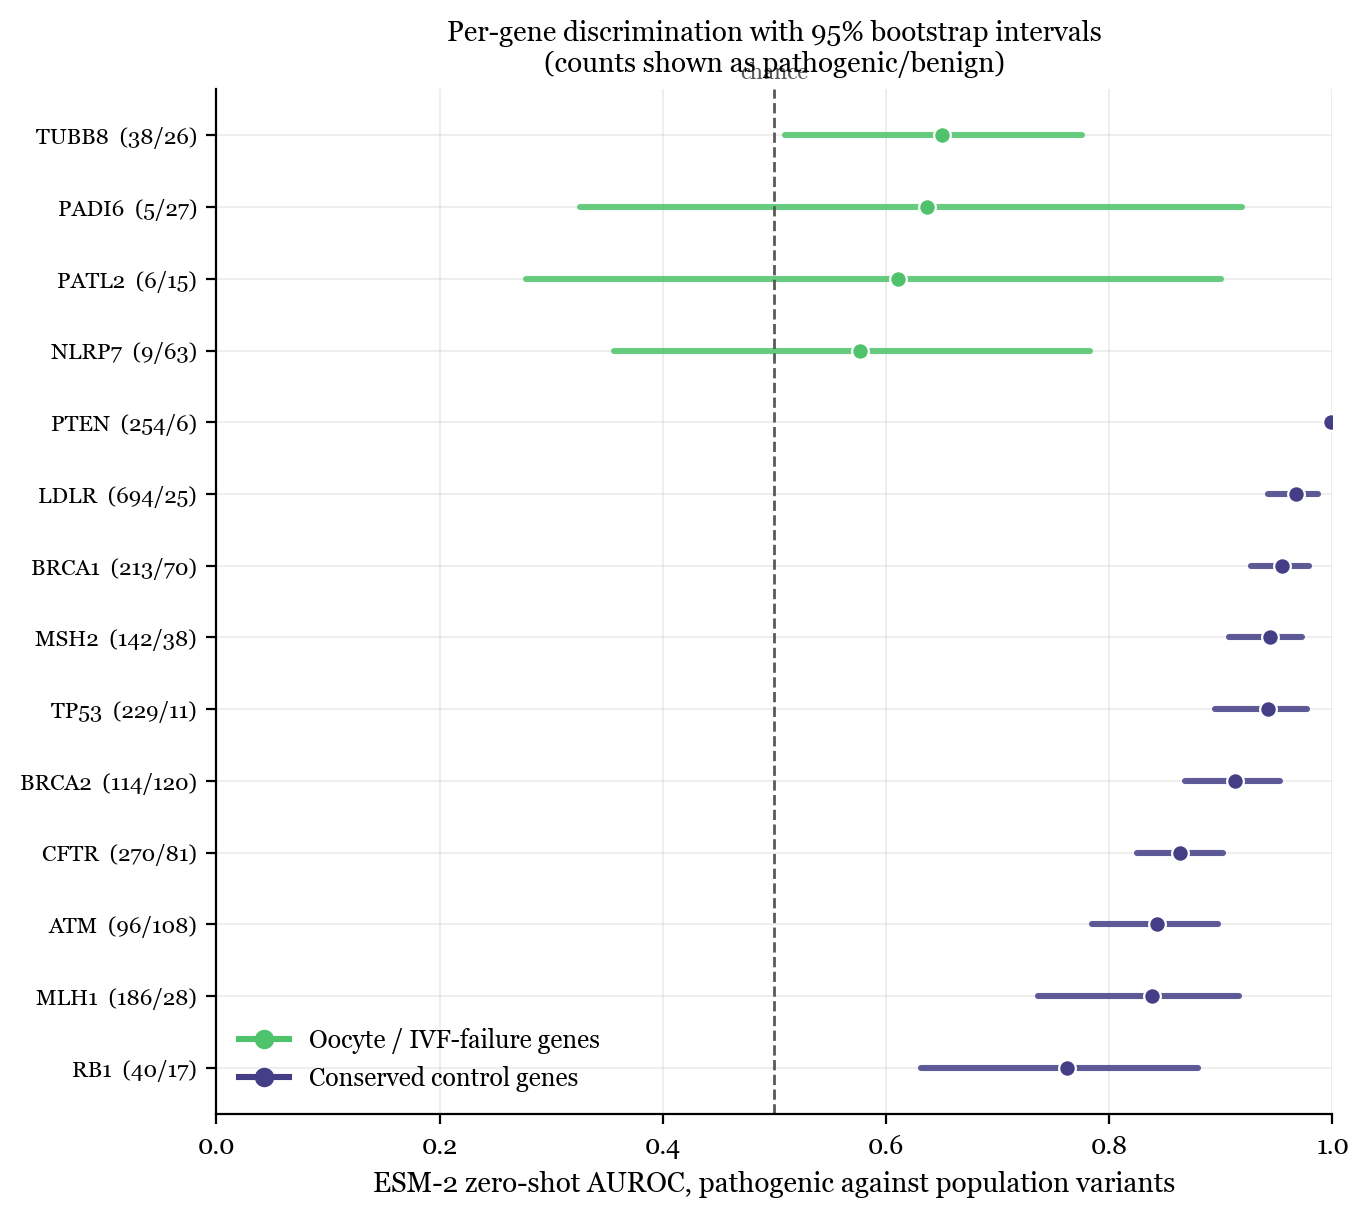
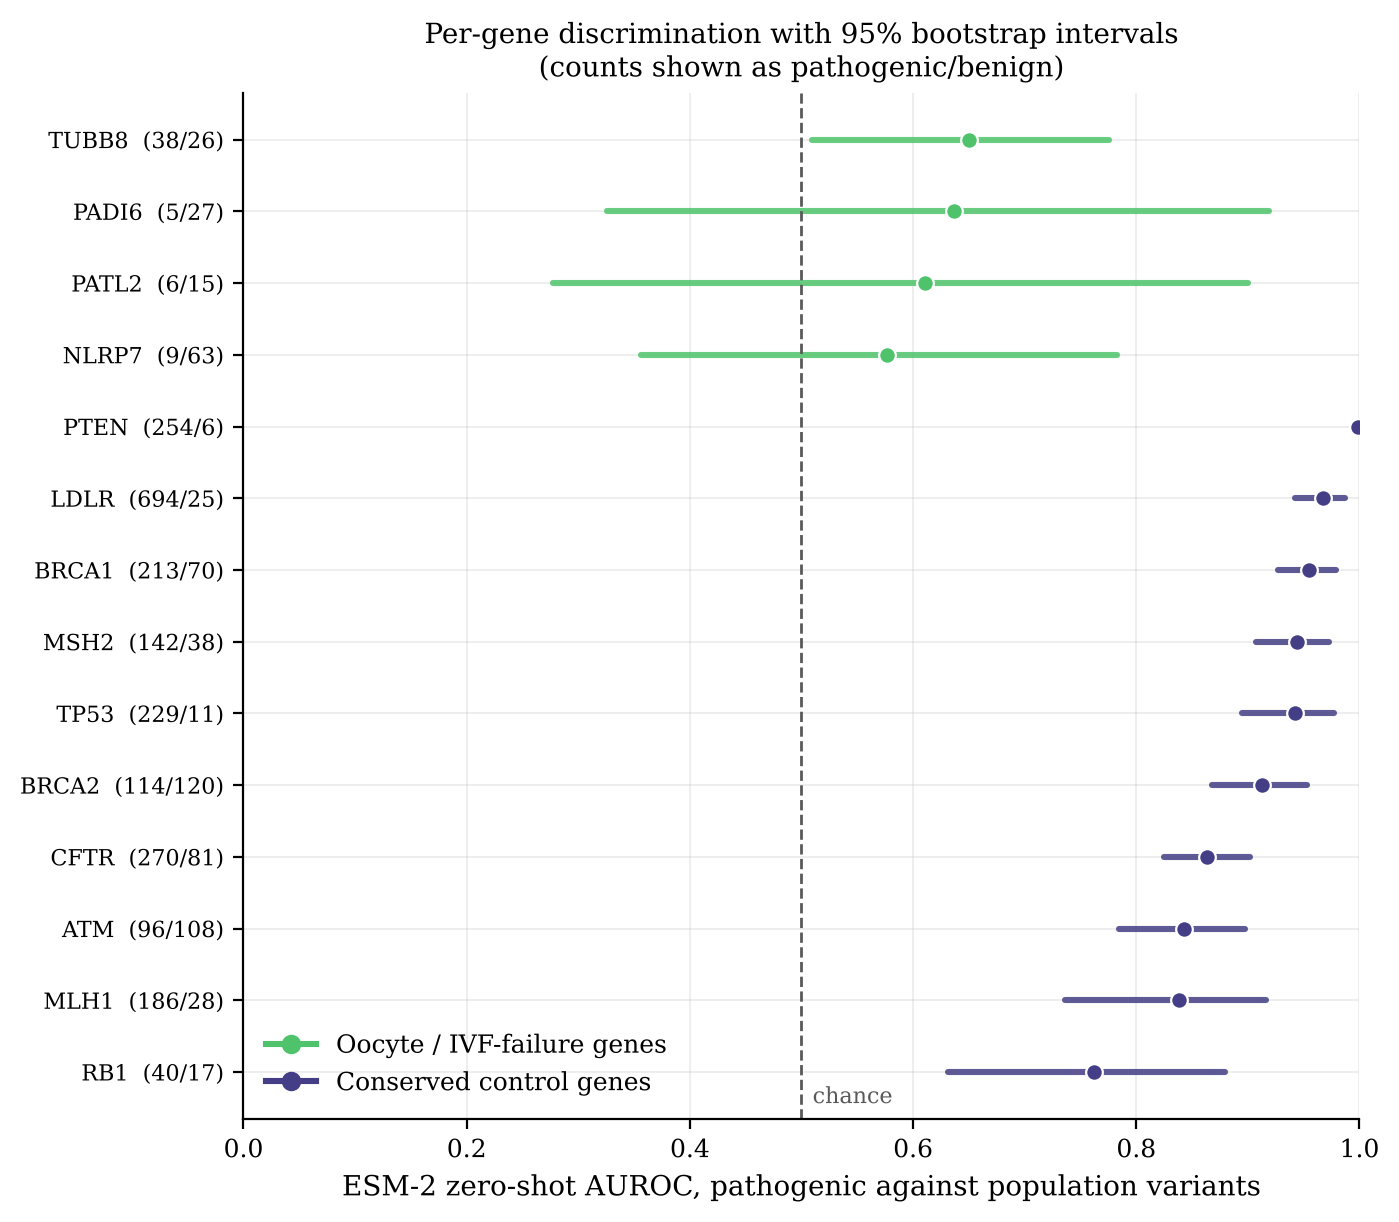
Fix Figure 1 chance label; add 12_figures_extra.py
Figure 1: the 'chance' label moved inside the axes at the foot of the
dashed line so it no longer overlaps the title. Regenerated here with the
DejaVu Serif fallback (Georgia is not installed in this environment).
New fig4 permutation null distributions (min-AF 1e-4 and 1e-3); fig5
(TUBB8 position classes) and fig6 (AUROC vs pseudo-perplexity) are drawn
once steps 08 and 09 have been run.

Claude-Session: https://claude.ai/code/session_01TYGEgcSfH6ALLhKz831jXa

diff --git a/12_figures_extra.py b/12_figures_extra.py
@@ -1,0 +1,180 @@
+#!/usr/bin/env python3
+"""
+12_figures_extra.py
+
+Figures for the follow-up analyses, in the same style as 05_figures.py
+(the style settings and palette are imported from it, not copied).
+
+    fig4_permutation_null.png     exact permutation null distributions for
+                                  the ESM-2, BLOSUM62 and advantage gaps,
+                                  observed gap marked (step 06)
+    fig5_tubb8_position_classes.png  TUBB8 AUROC at paralog-shared versus
+                                  TUBB8-specific positions (step 08)
+    fig6_auroc_vs_pppl.png        per-gene ESM-2 AUROC and advantage
+                                  against pseudo-perplexity (step 09)
+
+A figure whose input file does not exist yet is skipped with a message,
+so this can be rerun as each local step is completed.
+
+Usage
+    python 12_figures_extra.py
+    python 12_figures_extra.py --setting min_af=0.001
+"""
+
+import argparse
+import importlib
+import os
+
+import matplotlib.pyplot as plt
+import numpy as np
+
+from common import RESULT_DIR, read_jsonl
+
+fig05 = importlib.import_module("05_figures")      # sets rcParams on import
+GRAD, COLOUR, LABEL, save = fig05.GRAD, fig05.COLOUR, fig05.LABEL, fig05.save
+
+QUANTITY_LABEL = {
+    "esm": "ESM-2 gap",
+    "blosum": "BLOSUM62 gap",
+    "esm_adv": "ESM-2 advantage gap",
+}
+
+
+def fig_permutation_null(setting):
+    path = os.path.join(RESULT_DIR, "permutation_null.jsonl")
+    if not os.path.exists(path):
+        print("skipping fig4, run 06_permutation_test.py first")
+        return
+    rows = {r["quantity"]: r for r in read_jsonl(path) if r["setting"] == setting}
+    tests = {r["quantity"]: r for r in read_jsonl(os.path.join(RESULT_DIR, "permutation_test.jsonl"))
+             if r["setting"] == setting}
+    order = [q for q in ("esm_adv", "esm", "blosum") if q in rows]
+    if not order:
+        print("skipping fig4, no rows for %s" % setting)
+        return
+
+    fig, axes = plt.subplots(1, len(order), figsize=(3.3 * len(order), 3.2),
+                             squeeze=False)
+    for ax, q in zip(axes[0], order):
+        null = np.asarray(rows[q]["null_gaps"])
+        obs = rows[q]["observed_gap"]
+        t = tests[q]
+        bins = np.linspace(null.min(), max(null.max(), obs), 32)
+        ax.hist(null, bins=bins, color=GRAD(0.45), alpha=0.75,
+                edgecolor="white", linewidth=0.5)
+        # Splits at least as extreme as observed, in the darker shade.
+        ax.hist(null[null >= obs - 1e-12], bins=bins, color=GRAD(0.18),
+                edgecolor="white", linewidth=0.5)
+        ax.set_ylim(0, ax.get_ylim()[1] * 1.3)      # headroom for the label
+        ax.axvline(obs, color=GRAD(0.18), linewidth=1.6)
+        ax.axvline(0.0, color="0.35", linestyle="--", linewidth=1.0)
+        ax.text(0.03, 0.97, "observed %.3f\np = %d/%d" % (obs, t["n_at_least"], t["n_splits"]),
+                transform=ax.transAxes, ha="left", va="top", fontsize=8, color="0.2",
+                bbox=dict(facecolor="white", edgecolor="none", alpha=0.85, pad=1.5))
+        ax.set_title(QUANTITY_LABEL.get(q, q))
+        ax.set_xlabel("control minus oocyte, mean AUROC")
+    axes[0][0].set_ylabel("label assignments")
+    fig.suptitle("Exact permutation null, all %d ways to place %d oocyte labels on %d genes"
+                 % (tests[order[0]]["n_splits"], tests[order[0]]["n_oocyte_genes"],
+                    tests[order[0]]["n_oocyte_genes"] + tests[order[0]]["n_control_genes"]),
+                 fontsize=10)
+    fig.tight_layout()
+    suffix = "" if setting == "min_af=0.0001" else "_" + setting.replace("=", "").replace(".", "p")
+    save(fig, "fig4_permutation_null%s.png" % suffix)
+
+
+def fig_tubb8_classes():
+    path = os.path.join(RESULT_DIR, "tubb8_position_classes.jsonl")
+    if not os.path.exists(path):
+        print("skipping fig5, run 08_tubb8_paralog_positions.py first")
+        return
+    rows = [r for r in read_jsonl(path) if r["analysis"] == "primary"
+            and r["class"] in ("shared", "specific")]
+    test = [r for r in read_jsonl(path) if r["analysis"] == "primary"
+            and r["class"] == "shared_minus_specific"][0]
+
+    fig, ax = plt.subplots(figsize=(5.4, 3.6))
+    width = 0.36
+    for k, (method, shade) in enumerate((("esm", 0.18), ("blosum", 0.72))):
+        xs, ys, lo, hi = [], [], [], []
+        for i, r in enumerate(rows):
+            if r[method + "_auroc"] is None:
+                continue
+            xs.append(i + (k - 0.5) * width)
+            ys.append(r[method + "_auroc"])
+            lo.append(r[method + "_auroc"] - (r[method + "_lo"] or r[method + "_auroc"]))
+            hi.append((r[method + "_hi"] or r[method + "_auroc"]) - r[method + "_auroc"])
+        ax.bar(xs, ys, width=width * 0.92, yerr=[lo, hi], capsize=4,
+               color=GRAD(shade), edgecolor="white", linewidth=0.8,
+               label="ESM-2" if method == "esm" else "BLOSUM62")
+    ax.axhline(0.5, color="0.35", linestyle="--", linewidth=1.0)
+    ax.set_xticks(range(len(rows)))
+    ax.set_xticklabels(["%s positions\n(%d path / %d benign)"
+                        % ("paralog-shared" if r["class"] == "shared" else "TUBB8-specific",
+                           r["n_pathogenic"], r["n_benign"]) for r in rows], fontsize=8)
+    ax.set_ylim(0.0, 1.0)
+    ax.set_ylabel("AUROC within class")
+    note = ""
+    if test.get("esm_diff") is not None:
+        note = "\nESM-2 shared minus specific %+.3f, permutation p = %.3f" % (
+            test["esm_diff"], test["esm_p"])
+    ax.set_title("TUBB8, by conservation across human beta-tubulins%s" % note, fontsize=9)
+    ax.legend(loc="lower right", fontsize=8)
+    fig.tight_layout()
+    save(fig, "fig5_tubb8_position_classes.png")
+
+
+def fig_auroc_vs_pppl(model):
+    path = os.path.join(RESULT_DIR, "pseudo_perplexity.jsonl")
+    if not os.path.exists(path):
+        print("skipping fig6, run 09_pseudo_perplexity.py first")
+        return
+    pppl = {r["gene"]: r for r in read_jsonl(path) if r.get("model") == model}
+    cors = {(r["measure"], r["target"], r.get("scope")): r for r in read_jsonl(
+        os.path.join(RESULT_DIR, "pseudo_perplexity_correlations.jsonl"))
+        if r.get("model") == model and "target" in r}
+    rows = [r for r in read_jsonl(os.path.join(RESULT_DIR, "auroc_by_gene.jsonl"))
+            if r["included"] and r["gene"] in pppl]
+    if not rows:
+        print("skipping fig6, no pseudo-perplexity rows for model %s" % model)
+        return
+
+    fig, axes = plt.subplots(1, 2, figsize=(9.0, 3.8))
+    for ax, (target, ylabel) in zip(axes, (("esm_auroc", "ESM-2 AUROC"),
+                                           ("esm_adv", "ESM-2 minus BLOSUM62 AUROC"))):
+        for r in rows:
+            x = pppl[r["gene"]]["pseudo_perplexity"]
+            y = r["esm_auroc"] if target == "esm_auroc" else r["esm_auroc"] - r["blosum_auroc"]
+            ax.plot(x, y, "o", color=COLOUR[r["panel"]], ms=7,
+                    markeredgecolor="white", markeredgewidth=0.8)
+            ax.annotate(r["gene"], (x, y), xytext=(4, 3), textcoords="offset points",
+                        fontsize=7, color="0.25")
+        c = cors.get(("pseudo_perplexity", target, "all_included"))
+        title = ylabel
+        if c:
+            title += "\nSpearman rho %+.2f, permutation p = %.3f (n=%d)" % (
+                c["spearman_rho"], c["p_two_sided"], c["n_genes"])
+        ax.set_title(title, fontsize=9)
+        ax.set_xlabel("ESM-2 pseudo-perplexity of the wild-type protein")
+        ax.set_ylabel(ylabel)
+    handles = [plt.Line2D([], [], color=COLOUR[p], marker="o", linestyle="",
+                          label=LABEL[p]) for p in ("oocyte", "control")]
+    fig.tight_layout(rect=(0, 0.07, 1, 1))
+    fig.legend(handles=handles, loc="lower center", ncol=2, fontsize=8)
+    save(fig, "fig6_auroc_vs_pppl.png")
+
+
+def main():
+    ap = argparse.ArgumentParser()
+    ap.add_argument("--setting", default="min_af=0.0001",
+                    help="which step 06 setting to plot in fig4")
+    ap.add_argument("--model", default="facebook/esm2_t33_650M_UR50D",
+                    help="which step 09 model run to plot in fig6")
+    args = ap.parse_args()
+    fig_permutation_null(args.setting)
+    fig_tubb8_classes()
+    fig_auroc_vs_pppl(args.model)
+
+
+if __name__ == "__main__":
+    main()

diff --git a/05_figures.py b/05_figures.py
@@ -77,8 +77,9 @@ def fig_auroc_by_gene():
                 markeredgecolor="white", markeredgewidth=0.8)
 
     ax.axvline(0.5, color="0.35", linestyle="--", linewidth=1.0)
-    ax.text(0.5, 1.005, "chance", transform=ax.get_xaxis_transform(),
-            ha="center", va="bottom", fontsize=8, color="0.35")
+    # Label sits inside the axes at the foot of the line, clear of the title.
+    ax.text(0.51, 0.01, "chance", transform=ax.get_xaxis_transform(),
+            ha="left", va="bottom", fontsize=8, color="0.35")
 
     ax.set_yticks(ys)
     ax.set_yticklabels(["%s  (%d/%d)" % (r["gene"], r["n_pathogenic"], r["n_benign"])
